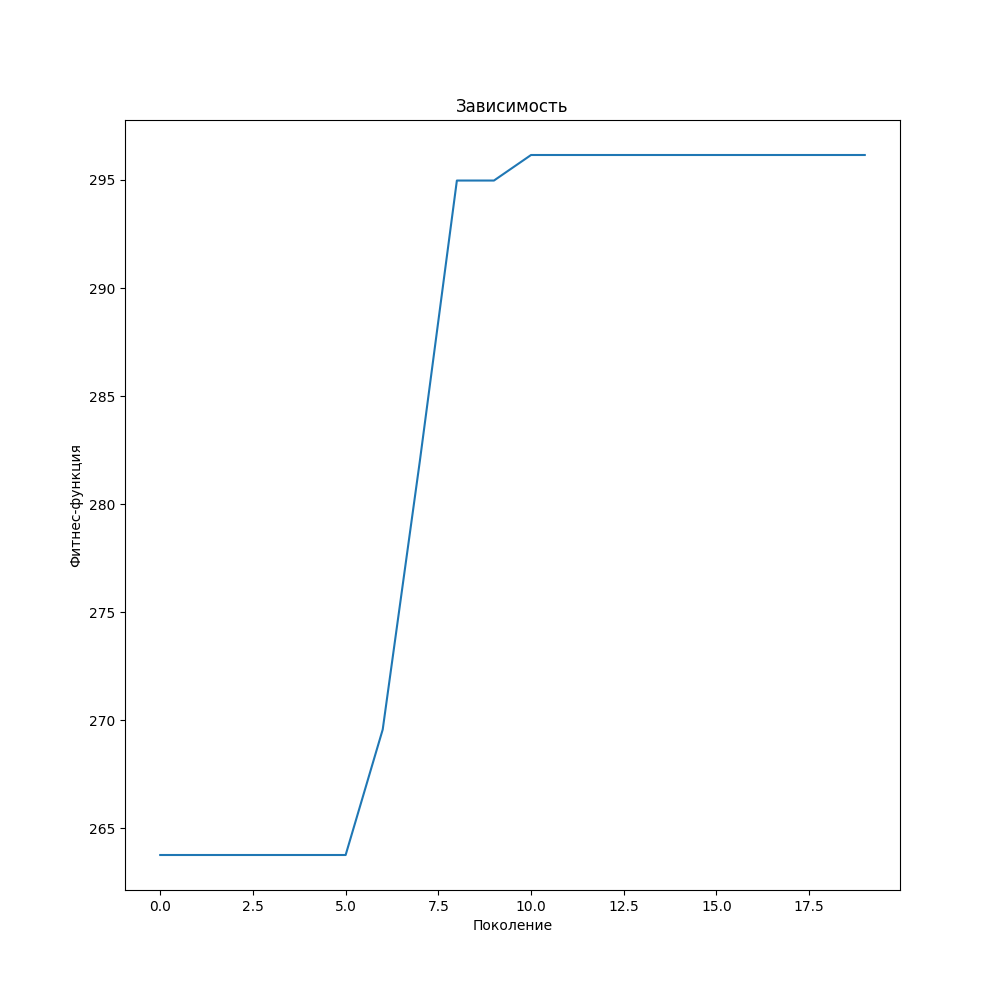
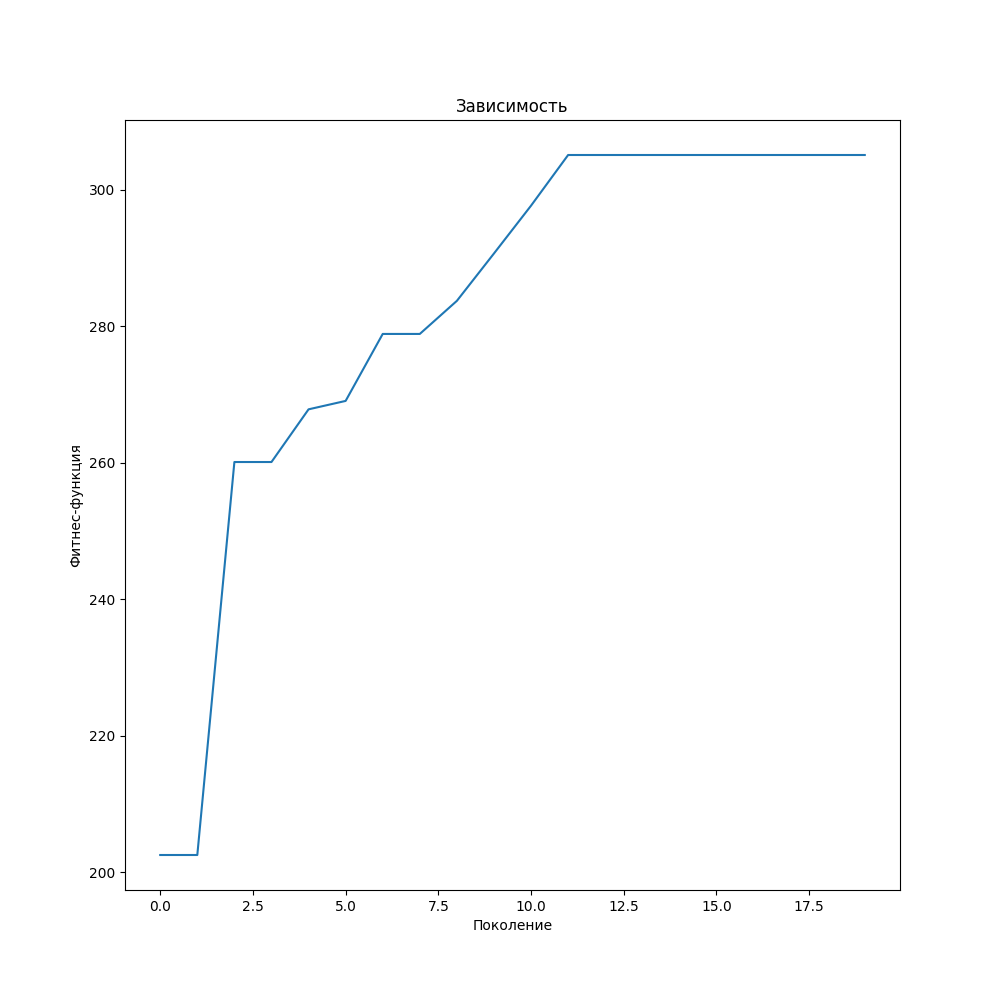
GA1: add NAN values processing, add mutation

diff --git a/GA1/genetic_algorithm.py b/GA1/genetic_algorithm.py
@@ -89,9 +89,25 @@ def crossover(parents):
 
 
 # -----------------------------------------------------------
+# Функция мутации
+# -----------------------------------------------------------
+@njit(fastmath=True, cache=True)
+def mutation(children, mutation_rate):
+    for i in range(len(children)):
+        if np.random.random() <= mutation_rate:
+            selected_gen = np.random.randint(0, 3)
+            change_value = np.random.randint(0, 1)
+            if (change_value == 0):
+                children[i, selected_gen] = children[i, selected_gen] - 0.1 * children[i, selected_gen]
+            else:
+                children[i, selected_gen] = children[i, selected_gen] + 0.1 * children[i, selected_gen]
+    return children
+
+
+# -----------------------------------------------------------
 # Генетический алгоритм
 # -----------------------------------------------------------
-def gen_alg(image):
+def gen_alg(image, mutation_rate):
     epochs = 20
     populationSize = 100
     k = int(np.round(populationSize * 0.1))
@@ -107,6 +123,7 @@ def gen_alg(image):
     fitness_values_array = []
 
     for i in range(epochs):
+        images_population[np.isnan(images_population)] = 0
         sorted_population = population_sort(images_population)
         k_best = sorted_population[-k:]
 
@@ -115,7 +132,10 @@ def gen_alg(image):
         selected_parents = binary_tournament(sorted_population[:populationSize - k], int(populationSize / 2 - k))
 
         parents = np.concatenate((k_best, selected_parents), axis=0)
+
         children = np.stack(crossover(parents), axis=0)
+
+        children = mutation(children, mutation_rate)
 
         for i in range(len(children)):
             children[i, 5] = chromosome_improve(children[i], image,
@@ -131,6 +151,4 @@ def gen_alg(image):
     off = n // 2
     new_image_bordered = make_mirror_reflection(image, off)
 
-    # n = best_chromo[4]
-    # off = n // 2
     return transformaton_calculation(image, new_image_bordered, n, off, global_brightness_value, best_chromo)

diff --git a/GA1/main.py b/GA1/main.py
@@ -17,9 +17,11 @@ def load_image(path):
 
     # image_bordered = make_mirror_reflection(image, off)
 
+    mutation_rate = 0.07
+
     start_time = time.time()
 
-    new_image = gen_alg(image)
+    new_image = gen_alg(image, mutation_rate)
 
     # params = []
     # params.append(5)
@@ -38,4 +40,4 @@ def load_image(path):
 
 
 if __name__ == '__main__':
-    load_image('../imgs/CM1.jpg')
+    load_image('../imgs/kaka.jfif')
